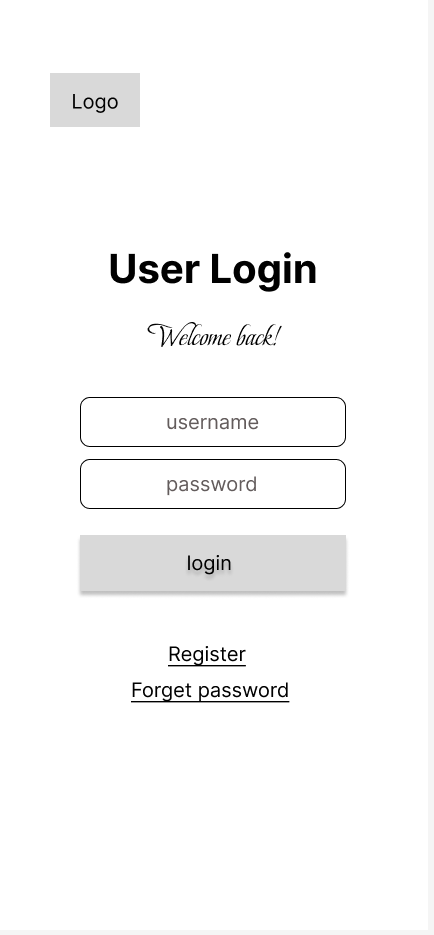
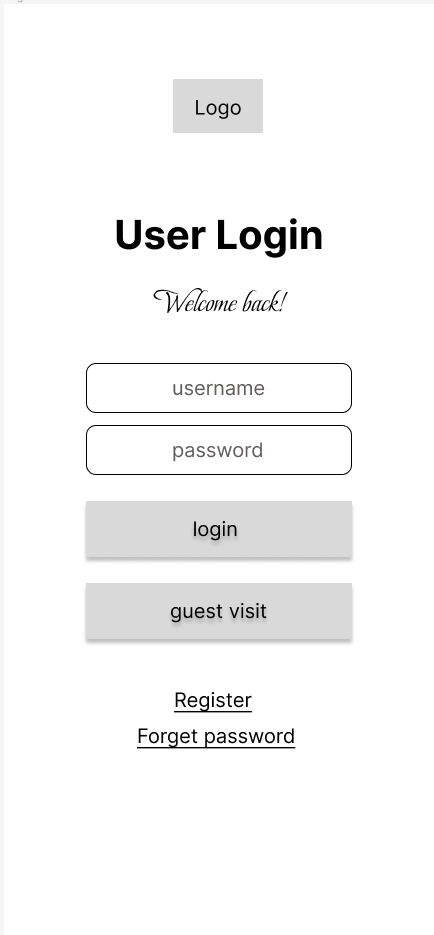
explain wireframe and insert prototype

diff --git a/ux-design/readme.md b/ux-design/readme.md
@@ -1,0 +1,63 @@
+# Wireframes
+
+## mainMap
+This is the main page of the application. Users can set time period and tap on map to review relavent art and music piece. Users can also set time period and search location on search bar to accomplish the same purpose.
+![mainMap](./wireframes/mainMap.png)
+
+## search
+App will display keyboard when user taps on search bar. A relavent location will be marked on the map. User can tap on map to return to previous page, or click "search" in keyboard to review further information.
+![search](./wireframes/search.png)
+
+## informationPop
+After user targets a specific location, either by searching or by tapping on map, two random pieces of cultural work will be recommended to user. One is art, and the other is music. User can tap on either to read further informaation. Or user tap on mapa to the previous page.
+![informationPop](./wireframes/informationPop.png)
+
+## informationDetail
+In thie page, user can read specific information about an artwork or a music. User can access this page by search or by "favorate file" in their user account. User can like or dislike an artwork.
+![informationDetail](./wireframes/informationDetail.png)
+
+## account
+This page is the portal for users to view and edit personal information. User can click to access all the art and music the liked. User can also further to the page to edit profile
+![account](./wireframes/account.png)
+User can slide left or right on the pictures their favorite piece to view the previous or the next one.
+![accountOtherPictures.png](./wireframes/accountOtherPictures.png)
+
+## accountEdit
+User can access various pop ups to edit their account information.
+![accountEdit](./wireframes/accountEdit.png)
+
+### editUsername
+User can change username in this popup.
+![editUsername](./wireframes/editUsername.png)
+
+## editEmail
+User can edit email in this popup
+![editEmail](./wireframes/editEmail.png)
+
+### editPassword
+User can change password in this popup
+![editPassword](./wireframes/editPassword.png)
+
+### editForgetPassword
+User can edit forgotten password this popup
+![editForgetPassword](./wireframes/editForgetPassword.png)
+
+## editDelete
+User can delete the whole account this page
+![editDelete](./wireframes/editDelete.png)
+
+## login
+User can log into their account. User can also visit the app as a guest. New user can register. And returning user can find back their password.
+![login](./wireframes/login.png)
+
+## loginForgetPassword
+A retunning user is able to find their password by following email instruction.
+![loginForgetPassword](./wireframes/loginForgetPassword.png)
+
+## loginIncorrectUser
+After entering a wrong combination of username and password, a notification will appear to remind the user.
+![loginIncorrectUser](./wireframes/loginIncorrectUser.png)
+
+## register
+New user can register for a new account.
+![register](./wireframes/register.png)

diff --git a/ux-design/prototype/readme.md b/ux-design/prototype/readme.md
@@ -1,0 +1,2 @@
+# Prototype
+Please find interactive figma prototype through [this link](https://www.figma.com/proto/sECCJI8CIvaC4rPkugvnMh/1st-edition?type=design&node-id=109-509&t=7hlzn50zFprgCX7I-0&scaling=scale-down&page-id=53%3A21&starting-point-node-id=109%3A509).
